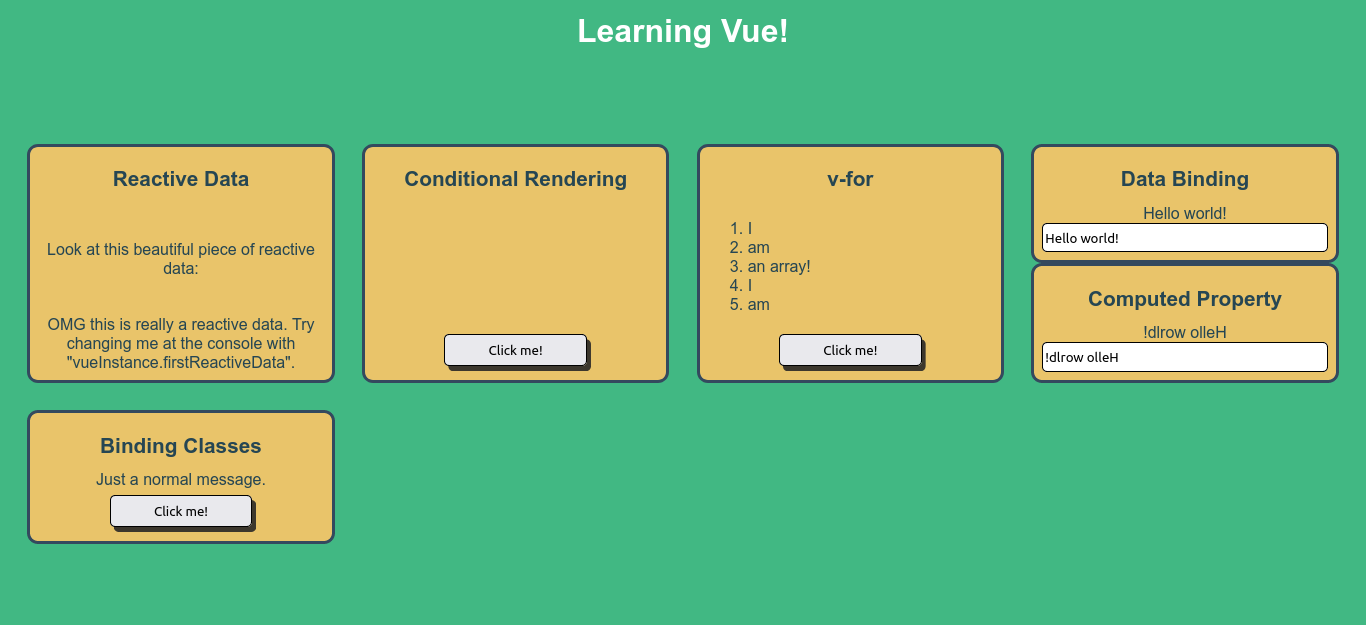
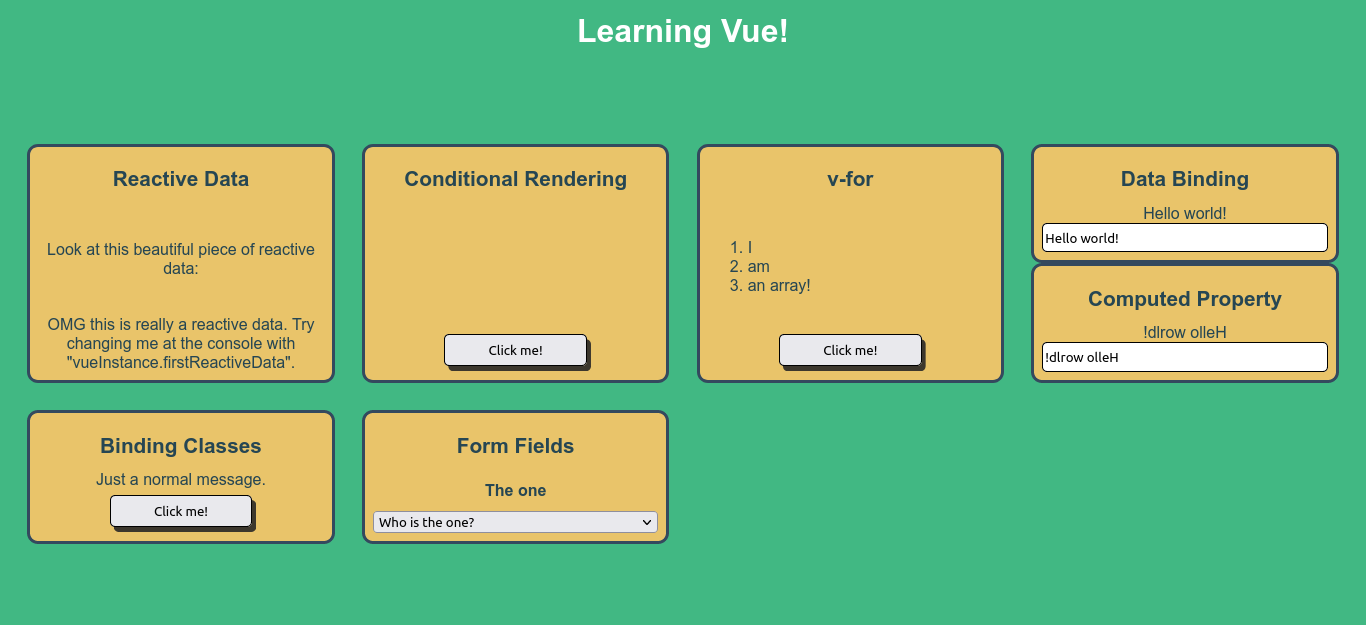
Add select element with an object as its value

Changed region(s): [[0.246, 0.6384, 0.4919, 0.8816], [0.5227, 0.3648, 0.5842, 0.4864]]

diff --git a/index.html b/index.html
@@ -60,7 +60,23 @@
 						:title="isEmergency? 'Let\'s calm down' : 'EMERGENCY!'">
 					Click me!
 				</button>
-			</color-block>	
+			</color-block>
+
+			<color-block title="Form Fields">
+				<p>
+					<b>The one</b>
+				</p>
+				<template v-if="theOne != ''">
+					<p>Name: {{ theOne.name }}</p>
+					<p>Age: {{ theOne.age }}</p>	
+				</template>
+				
+				<!-- Here, v-model and v-bind:value are being used to bind objects to the value of the select tag -->
+				<select v-model="theOne">
+					<option disabled value="">Who is the one?</option>
+					<option v-for="person in people" :value="person">{{ person.name }}</option>
+				</select>
+			</color-block>
 		</div>
 	</main>
 	
@@ -89,14 +105,26 @@
 				buttonTitle: 'If you click me, a message will appear above me.',
 				
 				textList: [
-						'I',
-						'am',
-						'an array!'
-					],
+					'I',
+					'am',
+					'an array!'
+				],
 				
 				dataBidingVariable: "Hello world!",
 
 				isEmergency: false,
+
+				theOne: '',
+				people: [
+					{
+						name: 'Neo',
+						age: '37'
+					},
+					{
+						name: 'Me',
+						age: 'unknown'
+					}
+				]
 			},
 			methods: {
 				toggleAppeareance: function() {
